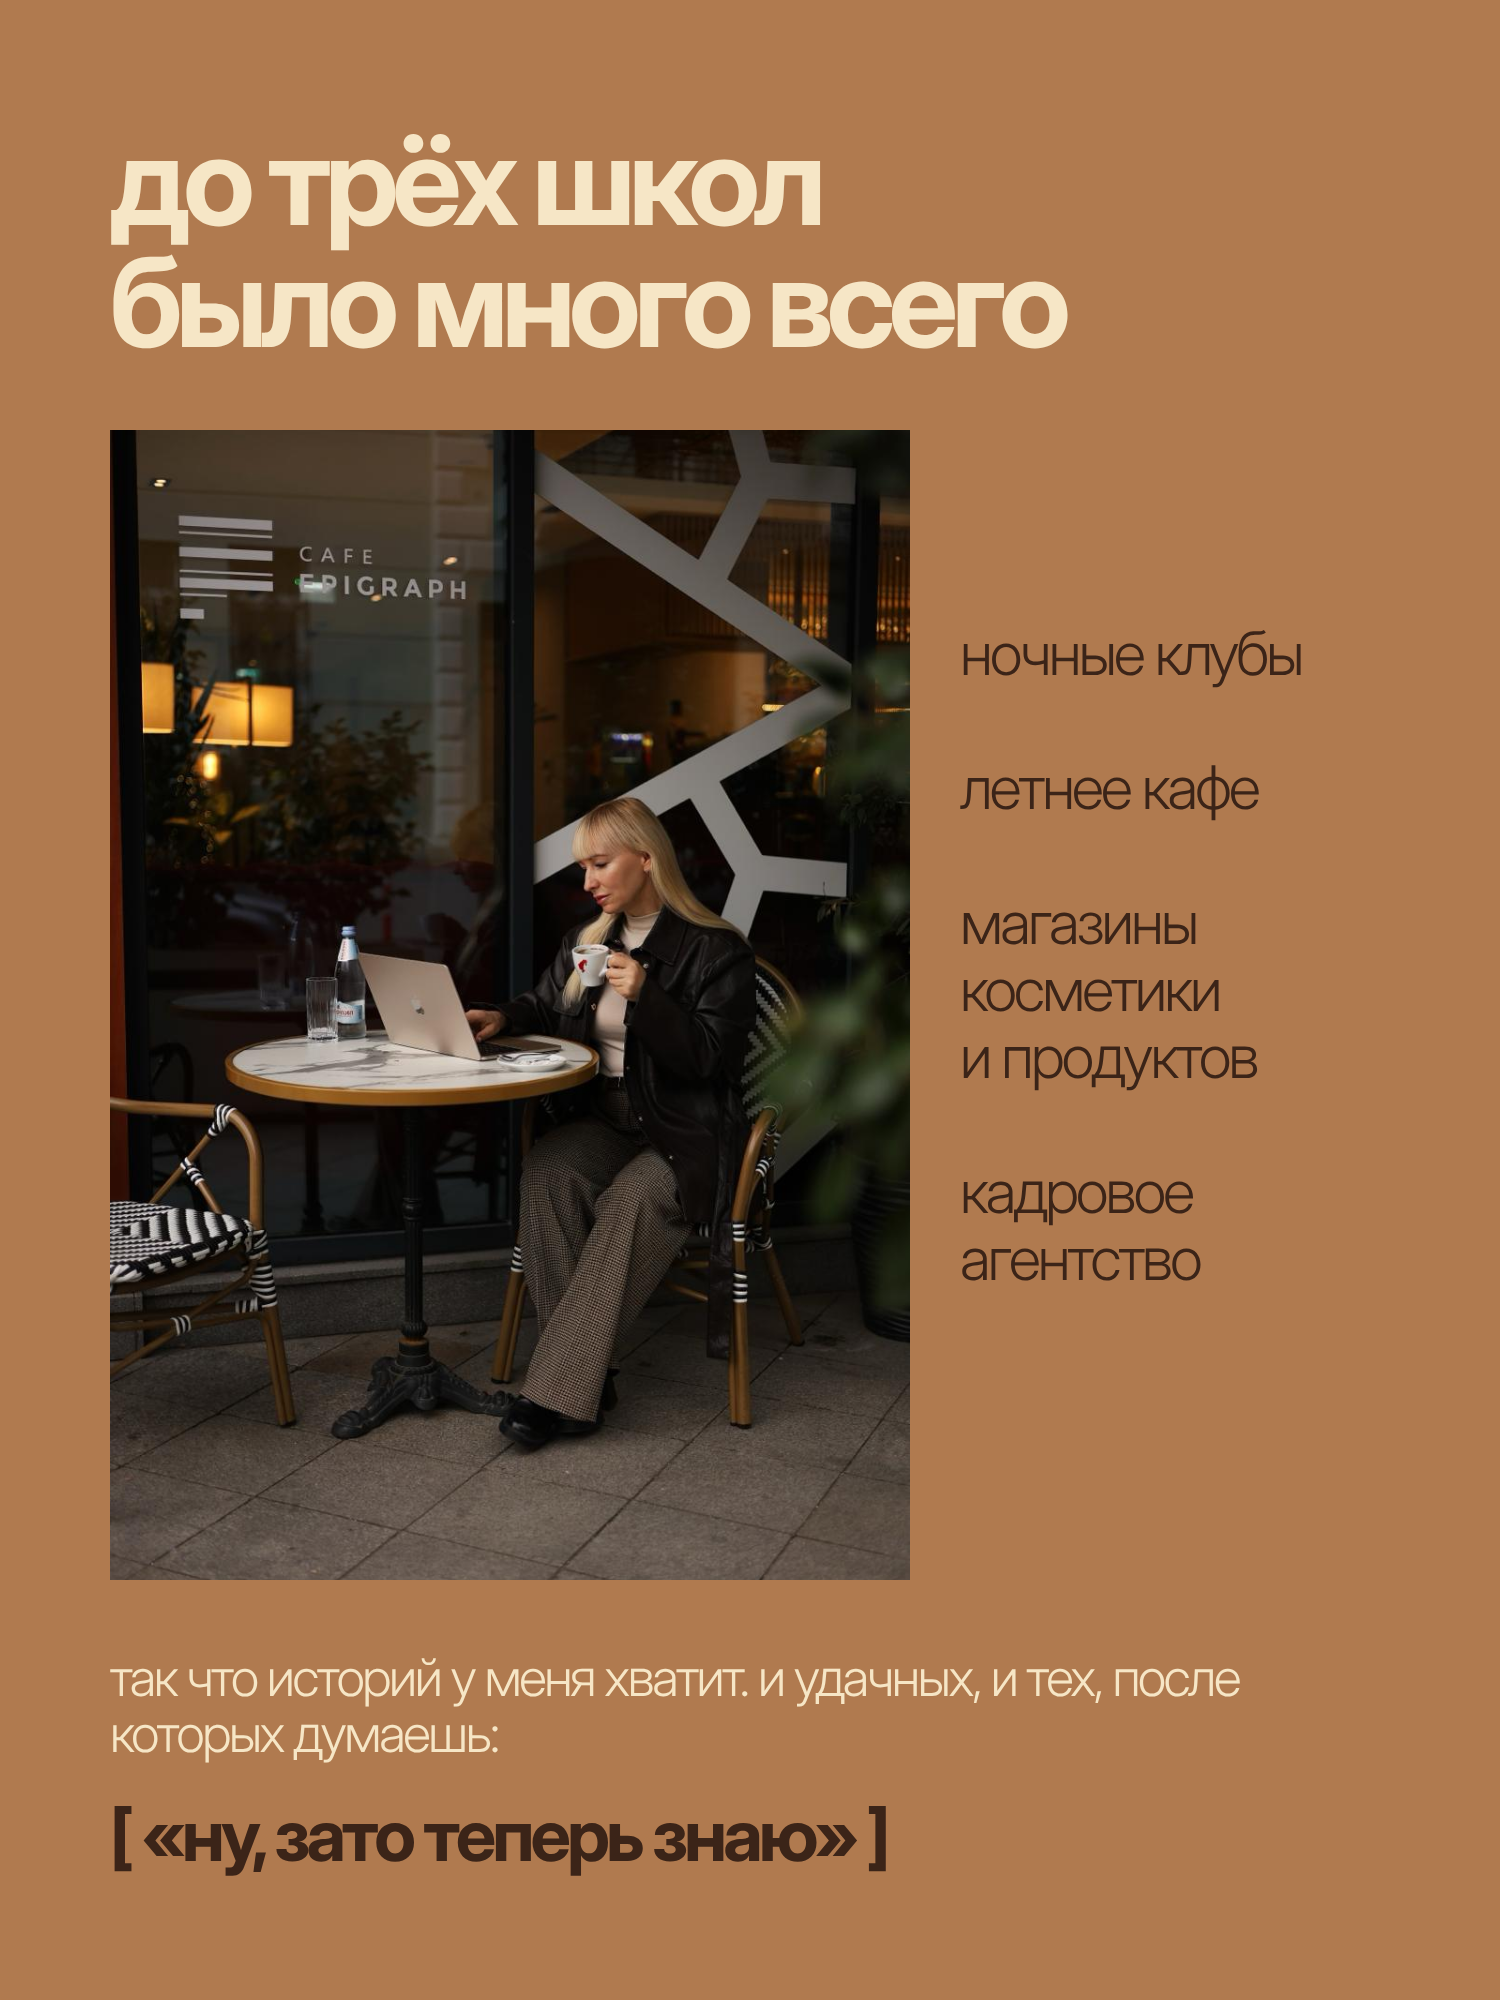
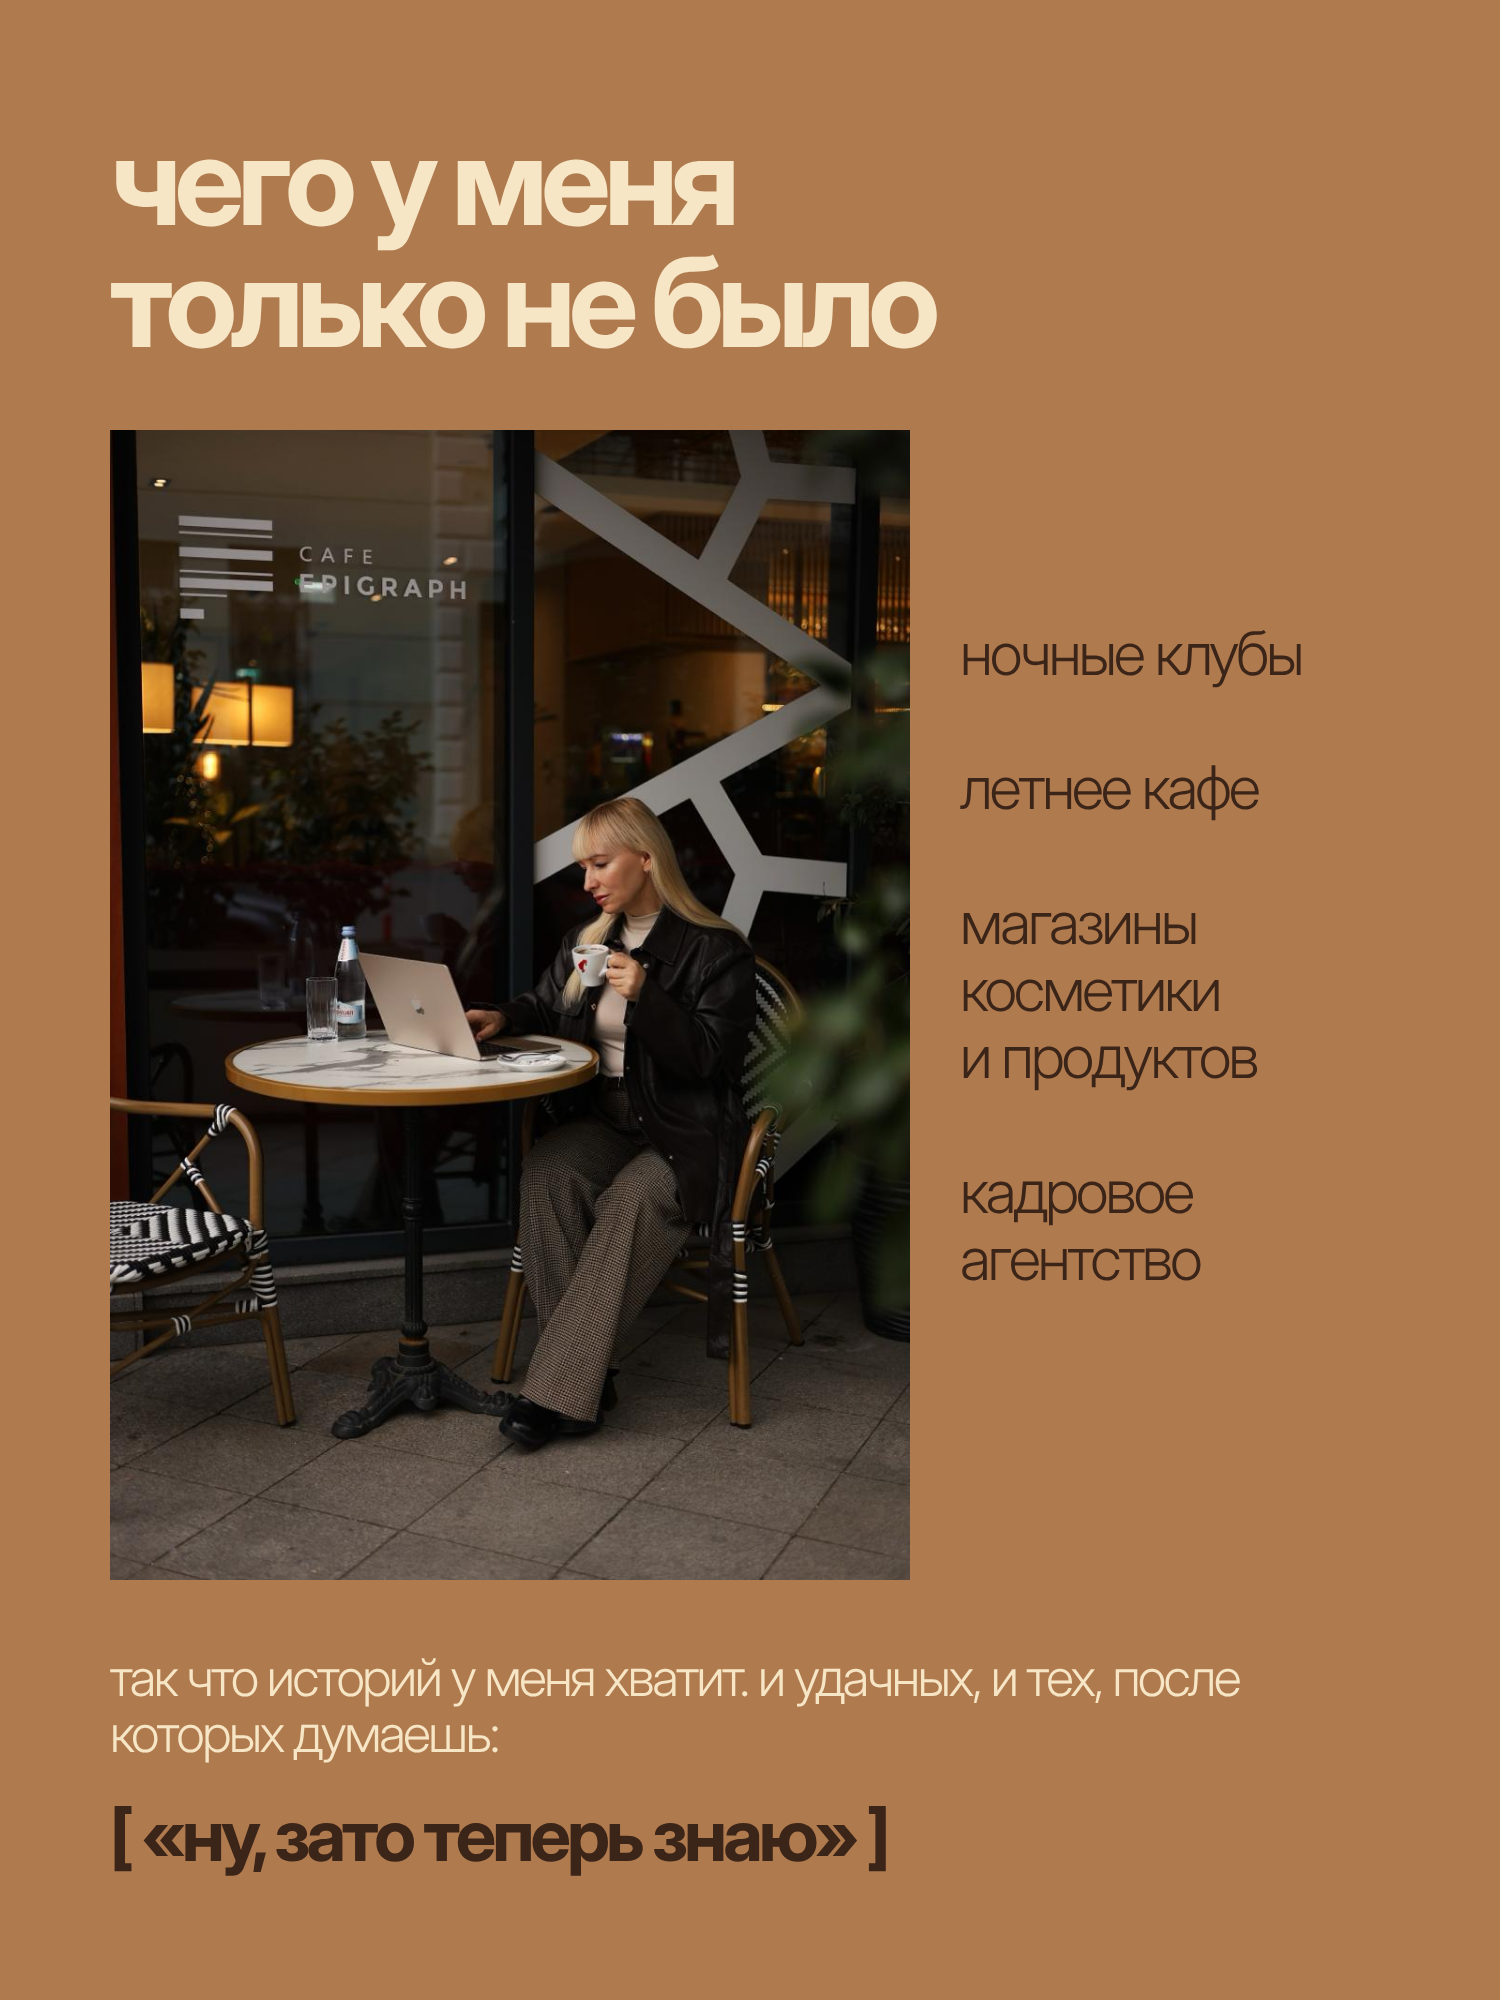
Carousel: new slide 3 heading, full-bleed photo on slide 6
Claude-Session: https://claude.ai/code/session_01EUhV7wSY77qAG1LrFAuACB

Changed region(s): [[0.0613, 0.062, 0.7053, 0.186]]

diff --git a/carousel-ulyana/carousel.html b/carousel-ulyana/carousel.html
@@ -52,7 +52,7 @@
 <!-- 3. До трёх школ: фото в рамке на цветном фоне -->
 <section class="slide" id="s3" style="background:var(--caramel)">
   <img class="abs" src="photos/p02.jpg" style="left:110px;top:430px;width:800px;height:1150px;object-fit:cover;object-position:60% 50%">
-  <div class="abs h" style="left:110px;top:120px;font-size:124px;color:var(--milk)">до трёх школ<br>было много всего</div>
+  <div class="abs h" style="left:110px;top:120px;font-size:124px;color:var(--milk)">чего у меня<br>только не было</div>
   <div class="abs t" style="left:960px;top:620px;font-size:60px;line-height:1.12;color:var(--dark)">
     ночные клубы<br><br>летнее кафе<br><br>магазины<br>косметики<br>и продуктов<br><br>кадровое<br>агентство
   </div>
@@ -91,15 +91,15 @@
 </section>
 
 <!-- 6. Бизнес-клуб: фото сверху, цвет снизу -->
-<section class="slide" id="s6" style="background:var(--sand)">
-  <img class="abs" src="photos/p14.jpg" style="left:0;top:0;width:1500px;height:1080px;object-fit:cover;object-position:50% 50%">
-  <div class="abs" style="left:0;top:0;width:1500px;height:1080px;background:linear-gradient(180deg,rgba(59,36,24,.55),rgba(59,36,24,0) 40%)"></div>
+<section class="slide" id="s6">
+  <img class="bg" src="photos/p15.jpg" style="object-position:50% 22%">
+  <div class="abs" style="inset:0;background:linear-gradient(180deg,rgba(59,36,24,.75) 0%,rgba(59,36,24,0) 22%,rgba(59,36,24,0) 50%,rgba(59,36,24,.8) 70%,rgba(59,36,24,.95) 100%)"></div>
   <div class="abs h" style="left:110px;top:110px;font-size:104px;color:var(--milk)">мне важно, с кем<br>можно всё это обсудить</div>
-  <div class="abs t" style="left:110px;right:110px;top:1150px;text-align:center;font-size:50px;color:var(--dark)">
+  <div class="abs t" style="left:110px;right:110px;top:1400px;text-align:center;font-size:48px;color:var(--milk)">
     <p>в Уфе я основала бизнес-клуб.<br>после переезда мы с Василиной открыли клуб в Батуми</p>
     <p>здесь можно сказать: <span class="b">«я не знаю, как это решить»</span></p>
   </div>
-  <div class="abs h" style="left:110px;right:110px;top:1560px;text-align:center;font-size:64px;line-height:1.05;color:var(--terra)">[ и обсудить с людьми, которые тоже платят зарплаты, ищут клиентов и отвечают за свой бизнес ]</div>
+  <div class="abs h" style="left:110px;right:110px;top:1700px;text-align:center;font-size:58px;line-height:1.05;color:var(--sand)">[ и обсудить с людьми, которые тоже платят зарплаты, ищут клиентов и отвечают за свой бизнес ]</div>
 </section>
 
 <!-- 7. Жизнь у моря: фото на весь слайд, фразы раскиданы -->
